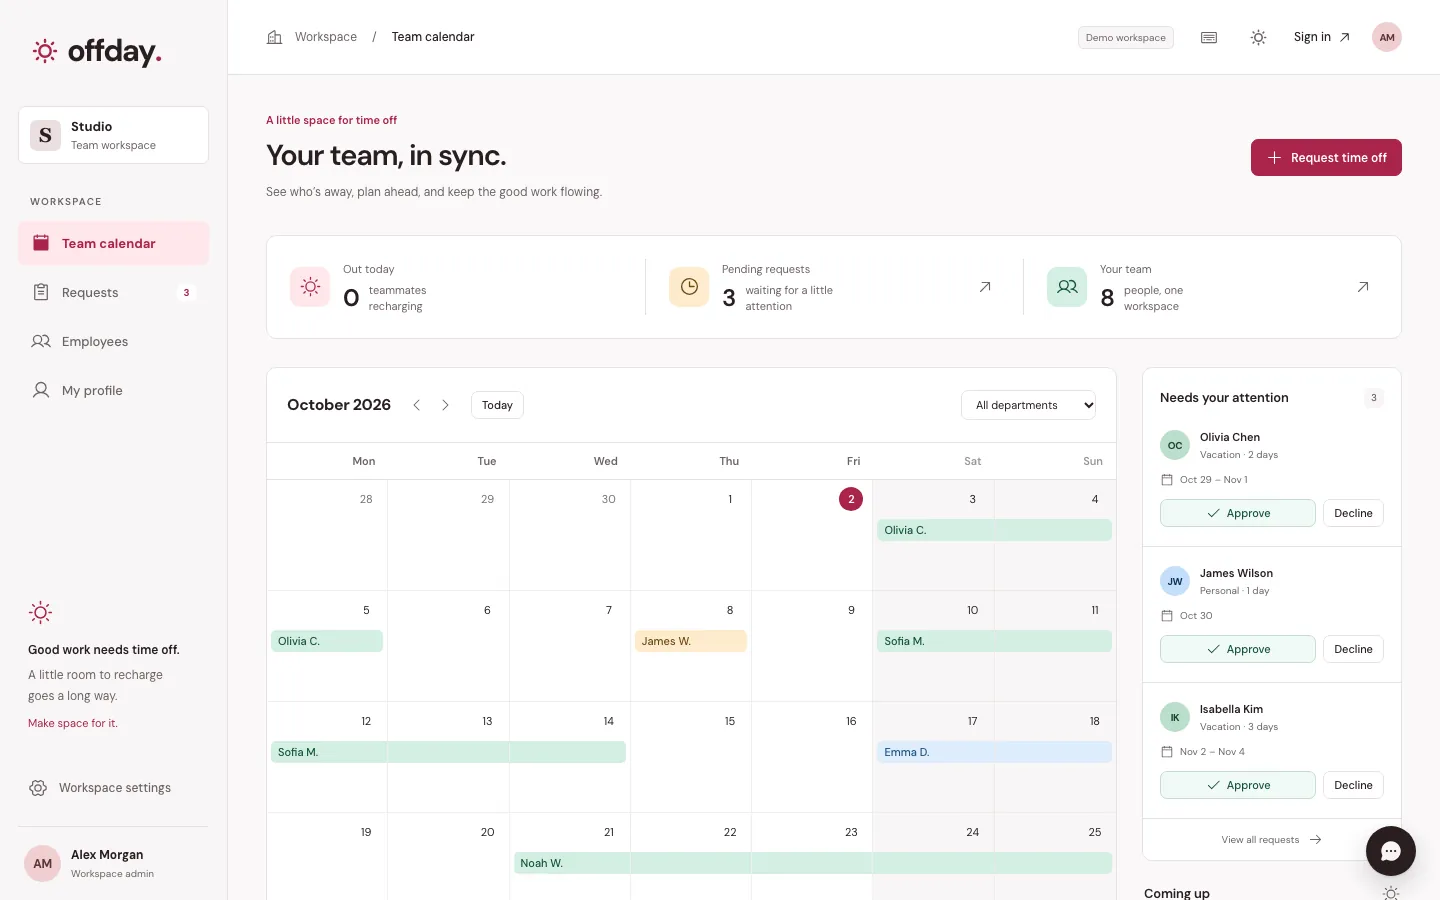
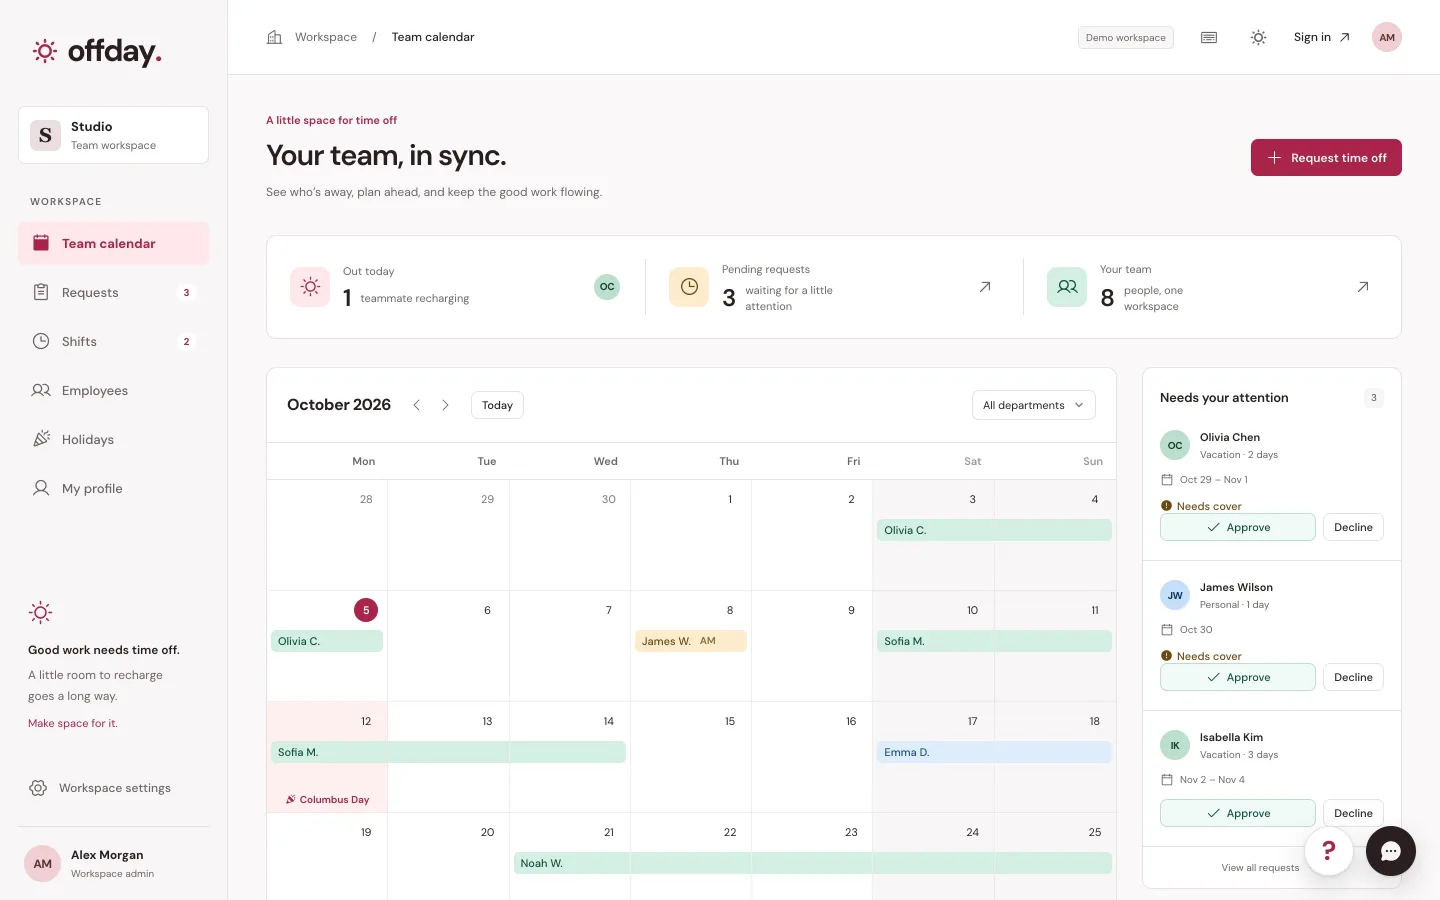
Show Offday from its current main, mostly in light theme, with updated facts

diff --git a/src/content/projects.ts b/src/content/projects.ts
@@ -714,21 +714,30 @@ export const projects: Project[] = [
     years: '2026',
     role: 'Owner',
     stack: ['Next.js 16', 'SQLite', 'Zod', 'Playwright'],
-    line: 'Multi-tenant time off with approvals, team calendar, AI assistant, 16 security tests',
+    line: 'Time off for teams: approvals, shared calendar, shift cover, best-dates planner, AI assistant',
     summary:
-      'Offday is a multi-tenant time-off app built with Next.js 16, SQLite and Zod. Employees request leave, managers approve it, and the team calendar shows who is away, with drag-select to pick dates. Invite links bring people into a workspace, a streaming AI assistant answers questions, and a dark theme is built in. Sixteen Playwright tests cover security and tenant isolation.',
+      'Offday is a multi-tenant time-off app built with Next.js 16, SQLite and Zod. Employees request leave, managers approve it, and the team calendar shows who is away, with drag-select to pick dates. Shifts warn when a person on leave leaves a shift without cover, "Find the best dates" suggests the longest breaks, and "Time to rest" shows who has had no real break. Public holidays load in one click, new people get emailed sign-in details, and a streaming AI assistant answers questions about the team. About 200 Playwright tests cover the flows, including security and tenant isolation.',
     links: [],
     media: {
-      shot: { src: '/personal/shots/thumbs/offday-app.webp', alt: 'Offday team calendar with October leave bars and approval queue' },
+      shot: { src: '/personal/shots/thumbs/offday-app.webp', alt: 'Offday team calendar for October with leave bars' },
       galleries: [
         {
           title: 'Offday',
           aspect: 'web',
           links: [],
           items: [
-            web('/personal/shots/offday-landing-desktop.webp', 'Offday landing page hero, Time off without the back-and-forth, with app preview', 'Landing page'),
-            web('/personal/shots/offday-app-desktop.webp', 'Offday team calendar in the demo workspace, October leave bars and approval queue', 'Team calendar'),
-            web('/personal/shots/offday-dark-desktop.webp', 'Offday team calendar in dark theme, leave bars and approval queue', 'Team calendar, dark'),
+            web('/personal/shots/offday-light-landing-desktop.webp', 'Offday landing page hero, Time off without the back-and-forth, with buttons to create a workspace or try the live demo', 'Landing page'),
+            web('/personal/shots/offday-light-calendar-desktop.webp', 'Offday team calendar for October 2026 in the demo workspace, with leave bars, a public holiday and the approval queue', 'Team calendar'),
+            web('/personal/shots/offday-light-drag-select-desktop.webp', 'Offday calendar for November 2026 with four days selected by a drag, public holidays marked and the Time to rest card', 'Drag to pick dates'),
+            web('/personal/shots/offday-light-best-dates-desktop.webp', 'Offday request form with Find the best dates open, suggesting breaks around Veterans Day, Thanksgiving and Christmas', 'Find the best dates'),
+            web('/personal/shots/offday-light-approvals-desktop.webp', 'Offday Requests page with three pending requests, Approve and Decline buttons, Needs cover labels and Export to Excel', 'Approvals'),
+            web('/personal/shots/offday-light-shifts-desktop.webp', 'Offday Shifts week grid with morning and evening shifts, two of them flagged Needs cover because the person is on leave', 'Shifts'),
+            web('/personal/shots/offday-light-assistant-desktop.webp', 'Offday workspace assistant answering who is off today and who is off next week, beside the team calendar', 'Workspace assistant'),
+            web('/personal/shots/offday-light-holidays-desktop.webp', 'Offday Holidays page with the 2026 United States public holidays added in one click', 'Public holidays'),
+            phone('/personal/shots/offday-light-calendar-phone.webp', 'Offday team calendar on a phone, with the request button, team counts and October leave bars', 'Calendar on a phone'),
+            phone('/personal/shots/offday-light-best-dates-phone.webp', 'Offday Find the best dates suggestions on a phone, with breaks around public holidays', 'Best dates on a phone'),
+            web('/personal/shots/offday-dark-calendar-desktop.webp', 'Offday team calendar in the dark theme, October leave bars and the approval queue', 'Team calendar, dark'),
+            web('/personal/shots/offday-dark-shifts-desktop.webp', 'Offday Shifts week grid in the dark theme, with two shifts flagged Needs cover', 'Shifts, dark'),
           ],
         },
       ],

diff --git a/src/drafts/orbit-index/data.ts b/src/drafts/orbit-index/data.ts
@@ -225,7 +225,7 @@ const entries: Record<string, Entry> = {
     accent: '#92b8ff',
     problem: 'Many teams share one time-off app, and no data may cross teams.',
     result: 'Approvals and a team calendar. 16 Playwright tests cover security and isolation.',
-    media: { kind: 'shot', src: '/personal/shots/offday-dark-desktop.webp', alt: 'Offday team calendar in the dark theme with leave bars' },
+    media: { kind: 'shot', src: '/personal/shots/offday-light-calendar-desktop.webp', alt: 'Offday team calendar in the light theme, October leave bars and the approval queue' },
   },
   'geo-guesser': {
     name: 'Geo Guesser World 3D',

diff --git a/src/drafts/cited-claims/data.ts b/src/drafts/cited-claims/data.ts
@@ -201,7 +201,7 @@ const entries: Record<string, Entry> = {
     scope: 'Web',
     problem: 'Many teams share one time-off app, and no data may cross teams.',
     result: 'Approvals and a team calendar. 16 Playwright tests cover security and isolation.',
-    media: { kind: 'shot', src: '/personal/shots/offday-dark-desktop.webp', alt: 'Offday team calendar in the dark theme with leave bars' },
+    media: { kind: 'shot', src: '/personal/shots/offday-light-calendar-desktop.webp', alt: 'Offday team calendar in the light theme, October leave bars and the approval queue' },
   },
   'geo-guesser': {
     name: 'Geo Guesser World 3D',

diff --git a/src/components/portfolio/indexArt.ts b/src/components/portfolio/indexArt.ts
@@ -81,11 +81,11 @@ export const indexArt: Record<string, IndexArt> = {
     caption: "Personal project",
   },
   offday: {
-    background: "#283b38",
-    images: ["/personal/shots/offday-dark-desktop.webp"],
+    background: "#f4efee",
+    images: ["/personal/shots/offday-light-calendar-desktop.webp"],
     type: "web",
     proof: "Time off, together.",
-    detail: "Multi-tenant · Next.js · 16 security tests",
+    detail: "Multi-tenant · Next.js · about 200 tests",
     caption: "Personal project",
   },
   fjale: {

diff --git a/src/drafts/issue/features.ts b/src/drafts/issue/features.ts
@@ -31,8 +31,8 @@ export const features: Feature[] = [
     aspect: "web",
     plates: [
       {
-        src: "/personal/shots/offday-dark-desktop.webp",
-        alt: "Offday team calendar in dark theme, leave bars and approval queue",
+        src: "/personal/shots/offday-light-calendar-desktop.webp",
+        alt: "Offday team calendar in the light theme, October leave bars and the approval queue",
       },
     ],
     href: "#iss-story",

diff --git a/CONTENT.md b/CONTENT.md
@@ -176,9 +176,9 @@ Owner confirmed (2026-10-02): built bayyinah.org, Next.js, 2024–25; repo acces
 ## 7. PERSONAL PROJECTS
 
 - **Snaxx Tech studio site** — marketing site for an indie app studio: a three.js hero, a seamless cinemagraph video loop, Almanac visual theme, strict CSP on Vercel. Images 972 KB → 337 KB, deploy 28 MB → 9.5 MB.
-- **Offday** — multi-tenant time-off app: employee requests, manager approvals, team calendar with drag-select, invite links, streaming AI assistant, dark theme. Next.js 16, SQLite, Zod, Playwright (16 security and tenant-isolation tests).
+- **Offday** — multi-tenant time-off app: employee requests, manager approvals, team calendar with drag-select, shifts with cover warnings, "Find the best dates" planner, "Time to rest" nudges, public holidays for about 200 countries, half days and carry-over, Excel export, calendar feed, emailed sign-in details, streaming AI assistant, light and dark themes. Next.js 16, SQLite, Zod, Playwright (about 200 tests, including security and tenant isolation).
 - **Open source** — maintained forks of `epubjs-react-native` and `react-native-pdf`, used in a production reading app. GitHub: github.com/gentritr1
-- **Real screenshots** — the owner's own sites (Snaxx Tech, Offday, FJALË, Za!, Morse Trainer) show real captures from `public/personal/shots/` (alt text and sizes in `src/content/projects.ts`); the Offday card swaps to the dark capture in dark theme, and the index rows use 256 × 160 crops from `shots/thumbs/`.
+- **Real screenshots** — the owner's own sites (Snaxx Tech, Offday, FJALË, Za!, Morse Trainer) show real captures from `public/personal/shots/` (alt text and sizes in `src/content/projects.ts`); Offday is shown mostly in its light theme, and the index rows use 256 × 160 crops from `shots/thumbs/`.
 - **Geo Guesser World 3D** — the index row uses a 256 × 160 crop of a Google Play frame (`public/mobile/thumbs/geoguesser.webp`). The Games mosaic stays 2 × 2: a fifth tile would break the grid.
 
 ---
